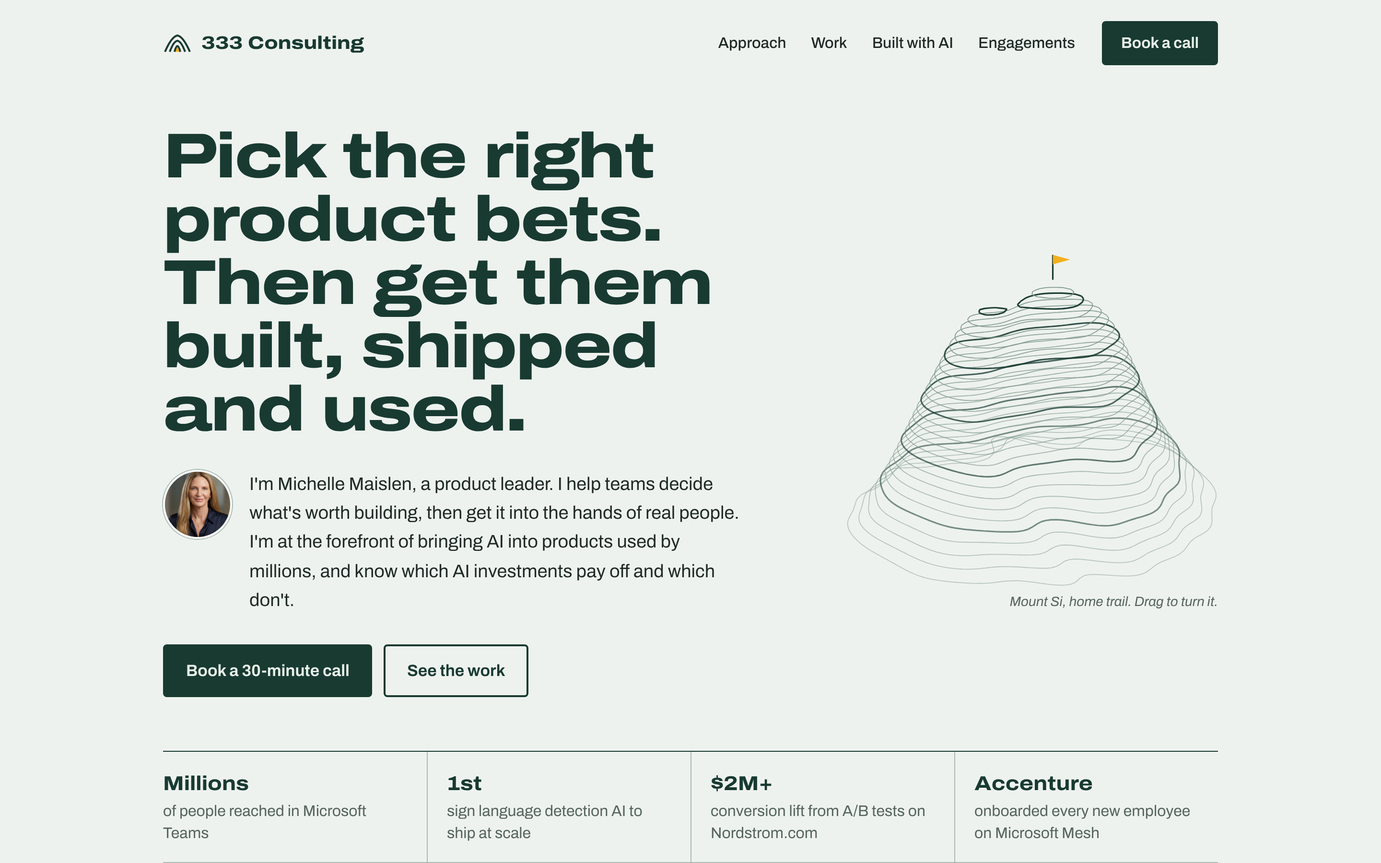
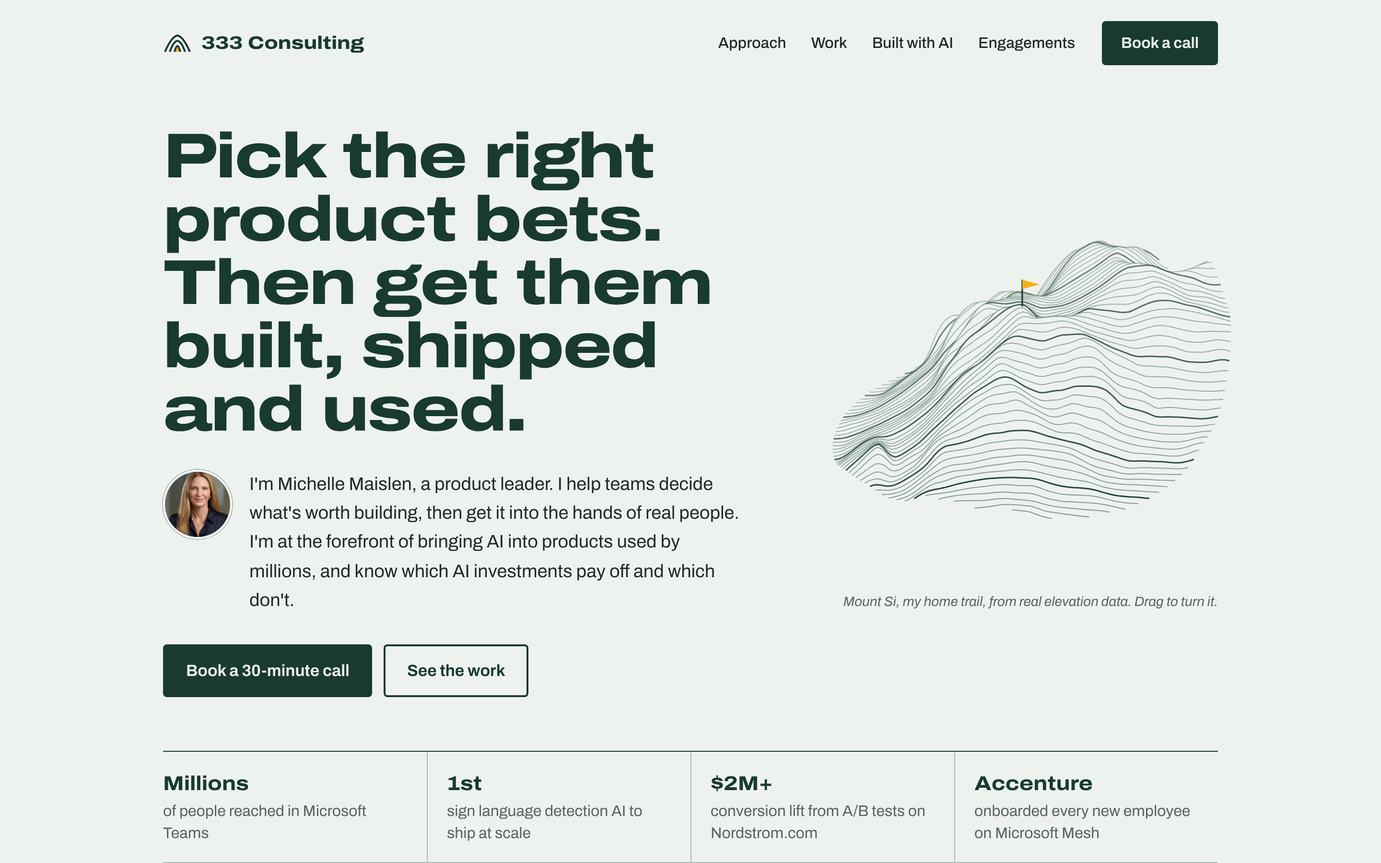
Build Mount Si from real elevation data
Replaces the stylized heightfield with a 73x73 grid sampled from AWS
Terrain Tiles around the Mount Si summit, drawn as hidden-line slices
so nearer ground hides what is behind it.

Claude-Session: https://claude.ai/code/session_01MV51zhT8Ci4aux5RyiGwML

Changed region(s): [[0.5938, 0.28, 0.9062, 0.6222], [0.625, 0.6844, 0.8125, 0.7156]]

diff --git a/terrain.js b/terrain.js
@@ -1,36 +1,23 @@
-/* A stylized Mount Si: a heightfield, cut into contour lines with marching squares, then drawn in 3D.
-   Each contour sits at its own elevation, so turning the model shows the shape the way a 3D package would. */
+/* Mount Si from real elevation data: a 73 x 73 grid of heights in meters (about 3.9 km across, the summit in
+   the middle, lightly smoothed), sampled from USGS-derived AWS Terrain Tiles.
+   Drawn the way a 3D package draws a hidden-line terrain: slices from back to front, each one filled with the
+   background so nearer ground hides what is behind it. Turning the model re-slices it from the new direction. */
 (function () {
-  const N = 72, LEVELS = 26;
-  const g = (x, y, cx, cy, sx, sy, a) => a * Math.exp(-(((x - cx) ** 2) / (2 * sx * sx) + ((y - cy) ** 2) / (2 * sy * sy)));
-  function height(x, y) {
-    let h = g(x, y, 0.08, -0.02, 0.42, 0.2, 1.0)      // main summit
-          + g(x, y, -0.42, 0.08, 0.3, 0.24, 0.62)     // western shoulder
-          + g(x, y, 0.42, 0.22, 0.22, 0.3, 0.42)       // eastern ridge
-          + g(x, y, -0.1, 0.5, 0.5, 0.18, 0.22);       // lower foothills
-    h += g(x, y, 0.5, -0.25, 0.12, 0.1, 0.18) + g(x, y, -0.2, -0.35, 0.1, 0.16, -0.12);
-    h += 0.05 * Math.sin(x * 8.3 + y * 2.9) * Math.cos(y * 6.1 - x * 2.4) + 0.025 * Math.sin(x * 17 - y * 13);
-    const r = Math.sqrt(x * x + y * y);
-    h *= Math.max(0, 1 - Math.pow(r / 1.05, 4));
-    return Math.max(0, h);
+  const N = 72, BASE = 100;
+  const DEM=[129,129,129,129,130,130,131,132,132,133,133,133,134,134,135,136,136,137,140,146,155,171,193,222,252,281,311,339,360,380,404,438,489,552,631,717,795,859,906,917,894,910,958,1008,1057,1068,1035,1032,1045,1040,1020,999,988,986,980,982,1005,1040,1075,1119,1170,1211,1241,1266,1279,1269,1252,1250,1264,1296,1330,1329,1312,128,129,129,129,130,131,131,132,133,133,133,134,134,135,135,136,137,138,141,149,163,181,207,236,264,291,322,351,374,393,416,454,513,586,668,748,816,876,928,957,951,951,993,1045,1087,1092,1061,1056,1064,1058,1038,1016,1008,1004,999,998,1007,1034,1069,1110,1159,1199,1229,1256,1280,1285,1271,1264,1273,1302,1341,1355,1345,128,129,129,129,130,131,131,132,133,133,133,134,134,135,136,137,138,138,142,154,171,194,221,251,278,306,337,365,387,406,431,475,545,629,711,781,841,898,950,991,1003,998,1031,1080,1114,1113,1088,1081,1083,1076,1056,1036,1028,1024,1026,1026,1022,1030,1058,1096,1140,1181,1213,1243,1275,1298,1299,1289,1287,1307,1345,1374,1376,129,129,129,130,130,131,131,132,133,133,134,134,135,136,138,139,140,141,147,161,181,206,234,265,297,329,359,384,403,422,449,499,576,661,738,806,867,922,972,1016,1042,1040,1064,1108,1137,1133,1111,1102,1101,1094,1076,1060,1050,1049,1056,1055,1041,1030,1046,1078,1118,1158,1195,1229,1265,1299,1321,1322,1311,1317,1346,1376,1381,129,129,129,130,130,131,132,132,133,133,134,134,135,138,142,145,147,149,156,171,193,221,251,285,326,364,393,414,429,445,472,521,595,677,750,820,885,942,991,1036,1070,1075,1094,1133,1157,1150,1130,1121,1120,1114,1101,1088,1079,1081,1086,1076,1051,1030,1037,1063,1098,1136,1175,1214,1253,1290,1326,1345,1342,1340,1357,1376,1375,129,129,129,129,130,131,132,132,133,133,134,135,138,144,152,158,160,164,171,186,211,241,275,318,368,411,442,458,464,473,493,536,603,681,752,819,887,949,1001,1049,1091,1104,1123,1158,1176,1167,1148,1141,1139,1135,1127,1118,1113,1114,1108,1085,1052,1028,1030,1051,1083,1117,1156,1198,1240,1278,1316,1349,1367,1371,1377,1375,1362,129,129,129,130,130,131,131,132,133,133,134,136,143,154,165,174,178,183,193,211,237,269,311,367,423,468,500,513,515,513,519,549,607,678,746,808,876,945,1001,1053,1102,1128,1151,1180,1196,1186,1169,1163,1160,1158,1155,1153,1152,1145,1124,1089,1051,1026,1023,1041,1069,1102,1139,1183,1227,1266,1304,1342,1374,1389,1382,1363,1340,129,130,130,130,130,131,131,132,132,133,134,138,150,165,179,191,199,207,223,246,273,311,366,431,485,527,561,581,586,578,562,571,615,674,737,798,862,933,996,1052,1105,1141,1168,1195,1213,1208,1193,1185,1182,1180,1182,1188,1189,1170,1133,1092,1054,1029,1020,1031,1057,1090,1126,1169,1213,1254,1293,1332,1368,1384,1371,1343,1317,130,130,130,130,131,131,132,132,132,133,134,140,155,175,193,211,224,235,256,286,320,368,433,496,542,585,626,652,662,651,621,607,628,678,737,793,850,919,988,1047,1102,1142,1172,1198,1217,1223,1217,1207,1200,1199,1205,1216,1214,1183,1138,1096,1060,1033,1020,1024,1047,1079,1115,1156,1198,1240,1280,1320,1358,1372,1354,1324,1296,130,130,130,131,131,131,132,132,132,133,134,140,158,182,205,227,246,262,287,324,370,431,497,552,597,644,689,716,723,706,673,648,650,688,743,796,847,915,984,1043,1097,1137,1167,1193,1214,1228,1235,1229,1219,1217,1226,1237,1227,1191,1145,1101,1066,1037,1021,1020,1039,1070,1104,1144,1185,1226,1267,1308,1347,1362,1342,1310,1284,130,130,131,131,131,131,132,132,132,133,135,142,161,187,213,237,262,285,314,357,415,486,553,604,649,697,744,774,778,757,722,694,683,702,752,804,857,924,988,1042,1090,1129,1160,1185,1208,1228,1245,1249,1242,1240,1248,1253,1234,1198,1155,1111,1073,1042,1023,1021,1035,1062,1095,1133,1174,1213,1253,1294,1333,1352,1336,1307,1283,130,131,131,131,131,132,132,132,133,133,135,146,168,197,227,253,280,309,342,385,445,519,590,648,693,738,784,820,829,808,774,751,736,734,764,813,871,937,994,1041,1084,1121,1150,1176,1200,1223,1246,1263,1267,1268,1272,1263,1236,1199,1160,1120,1083,1050,1031,1029,1039,1062,1095,1134,1173,1209,1243,1279,1316,1341,1334,1310,1288,130,131,131,131,132,132,132,132,133,134,137,151,174,204,241,279,313,344,377,417,466,530,605,673,725,772,817,853,867,852,826,811,800,784,786,824,882,946,998,1040,1078,1112,1141,1167,1192,1217,1242,1267,1286,1295,1289,1265,1232,1197,1161,1126,1092,1061,1043,1041,1050,1073,1108,1152,1193,1223,1244,1268,1301,1329,1335,1317,1293,131,131,131,131,132,132,132,133,133,135,143,162,187,215,254,308,358,391,425,464,497,537,602,675,737,794,843,879,898,893,879,870,862,843,827,844,891,949,997,1035,1071,1104,1132,1157,1182,1207,1235,1265,1294,1308,1293,1260,1226,1194,1162,1131,1099,1073,1060,1059,1070,1094,1129,1173,1214,1242,1256,1270,1294,1323,1337,1325,1299,131,131,131,132,132,132,132,133,134,140,156,182,208,239,278,333,398,446,488,531,554,565,601,664,732,798,854,894,918,925,923,918,912,896,875,878,907,950,993,1029,1062,1093,1121,1146,1170,1197,1226,1259,1292,1307,1288,1255,1223,1192,1163,1135,1108,1090,1083,1085,1100,1126,1157,1192,1230,1258,1275,1286,1303,1327,1343,1332,1303,131,131,132,132,132,132,132,133,137,152,175,203,231,266,313,370,449,519,570,621,644,638,635,663,719,785,845,888,917,936,948,949,945,933,915,912,930,959,992,1023,1053,1082,1109,1135,1160,1188,1220,1254,1286,1300,1282,1252,1222,1193,1168,1143,1123,1112,1110,1118,1137,1162,1188,1215,1248,1276,1294,1308,1323,1341,1349,1334,1306,131,131,132,132,133,133,133,133,143,166,195,223,252,289,344,426,534,616,666,715,734,721,702,693,710,759,814,859,896,933,960,969,966,958,944,937,948,971,994,1019,1046,1073,1099,1127,1154,1185,1218,1250,1280,1295,1280,1253,1226,1203,1182,1161,1148,1143,1143,1154,1174,1196,1217,1242,1269,1293,1311,1323,1335,1345,1348,1333,1310,131,132,132,132,133,133,133,135,150,180,213,244,273,307,361,455,580,674,725,759,773,767,760,745,729,745,787,832,878,928,966,982,982,976,969,964,965,976,995,1016,1042,1068,1095,1124,1153,1184,1216,1247,1277,1298,1292,1269,1246,1224,1206,1191,1184,1180,1179,1187,1204,1225,1245,1266,1288,1306,1314,1318,1323,1329,1332,1327,1314,131,132,132,133,133,134,134,139,160,193,227,262,295,326,371,445,546,639,701,740,764,782,799,800,779,771,798,839,883,930,971,991,992,989,988,988,986,983,993,1013,1038,1064,1091,1120,1149,1179,1211,1242,1273,1303,1313,1300,1278,1256,1240,1230,1225,1221,1218,1219,1231,1249,1269,1286,1299,1300,1295,1291,1292,1298,1304,1308,1307,131,132,133,133,133,134,135,145,171,204,239,277,313,345,383,433,504,577,638,694,741,783,824,850,843,825,841,881,922,956,985,1000,1003,1002,1003,1006,1002,993,994,1010,1033,1059,1085,1113,1142,1171,1202,1235,1268,1302,1326,1329,1312,1295,1284,1275,1267,1260,1253,1251,1257,1273,1291,1301,1295,1279,1265,1259,1259,1264,1271,1278,1283,131,132,133,133,134,134,137,152,181,215,250,288,322,357,397,438,489,542,598,667,739,804,858,896,901,883,885,920,964,991,1005,1013,1016,1016,1018,1018,1013,1003,999,1011,1031,1055,1080,1107,1135,1162,1193,1226,1261,1296,1325,1344,1342,1335,1330,1324,1313,1301,1291,1286,1289,1298,1305,1299,1281,1257,1240,1232,1230,1233,1239,1245,1251,130,132,133,133,134,136,144,161,188,221,256,291,324,359,400,440,483,530,594,680,765,837,895,936,953,946,930,948,989,1013,1021,1027,1030,1032,1032,1028,1018,1010,1007,1015,1033,1054,1078,1103,1129,1155,1185,1218,1253,1288,1319,1346,1361,1365,1367,1367,1359,1345,1332,1322,1314,1306,1296,1284,1266,1242,1223,1212,1208,1208,1211,1214,1219,129,131,132,133,135,142,155,174,199,227,257,289,323,359,400,440,484,534,611,716,806,872,924,965,994,1004,989,989,1014,1028,1034,1041,1046,1047,1044,1035,1021,1015,1015,1021,1037,1056,1077,1101,1126,1152,1180,1212,1246,1281,1314,1344,1364,1373,1377,1380,1378,1365,1347,1329,1310,1290,1275,1265,1254,1234,1214,1201,1192,1188,1187,1189,1194,129,130,132,134,138,148,165,186,212,239,265,294,327,364,403,443,487,539,621,728,825,893,936,969,1000,1021,1028,1032,1039,1042,1047,1056,1061,1061,1054,1040,1024,1020,1024,1029,1041,1058,1078,1100,1125,1152,1179,1209,1241,1277,1310,1339,1357,1361,1362,1365,1367,1357,1337,1317,1297,1276,1257,1246,1239,1228,1213,1197,1180,1168,1164,1166,1171,129,129,131,134,140,154,172,195,222,250,278,305,336,371,408,447,489,540,618,715,803,867,907,938,971,1003,1031,1051,1057,1055,1057,1065,1072,1073,1062,1044,1028,1026,1032,1038,1046,1060,1080,1102,1125,1153,1180,1208,1238,1272,1304,1329,1340,1340,1339,1344,1352,1348,1329,1310,1293,1271,1246,1229,1223,1220,1213,1199,1179,1160,1151,1150,1151,129,129,131,135,142,158,177,202,230,258,286,314,345,381,415,451,489,538,612,698,768,812,852,901,952,1000,1040,1065,1068,1062,1061,1067,1077,1080,1070,1050,1032,1029,1036,1044,1050,1062,1081,1103,1126,1153,1180,1207,1235,1265,1293,1312,1318,1317,1318,1324,1337,1342,1328,1309,1291,1268,1242,1222,1212,1209,1206,1198,1181,1162,1147,1141,1139,129,130,132,136,145,162,181,207,234,262,291,320,353,389,425,460,497,543,611,683,728,763,821,893,959,1020,1064,1080,1076,1066,1062,1067,1078,1087,1080,1058,1036,1030,1037,1047,1056,1066,1082,1102,1125,1153,1179,1205,1230,1255,1277,1290,1294,1295,1297,1304,1320,1333,1328,1310,1290,1267,1242,1221,1209,1202,1197,1189,1177,1161,1147,1139,1134,129,131,133,138,149,166,186,210,236,265,294,324,357,393,429,466,504,550,604,655,693,744,823,908,981,1047,1089,1094,1081,1067,1062,1066,1077,1092,1092,1069,1042,1032,1037,1048,1061,1072,1085,1103,1125,1152,1178,1202,1224,1243,1259,1267,1268,1269,1273,1283,1301,1318,1321,1310,1291,1269,1245,1224,1211,1203,1195,1184,1170,1155,1144,1137,1133,130,132,135,142,155,172,192,213,238,267,296,325,357,393,428,464,501,542,586,635,692,761,844,925,988,1042,1082,1092,1080,1067,1063,1071,1084,1097,1101,1082,1052,1036,1038,1049,1064,1077,1090,1107,1126,1151,1176,1198,1216,1229,1238,1242,1242,1242,1248,1263,1283,1300,1308,1304,1290,1271,1248,1229,1218,1209,1197,1184,1168,1151,1140,1133,1128,130,134,140,150,164,181,197,215,238,267,295,323,353,387,421,454,490,528,577,645,723,800,873,936,984,1016,1041,1057,1066,1070,1075,1088,1102,1113,1118,1101,1070,1047,1044,1054,1067,1080,1095,1111,1130,1153,1176,1195,1208,1214,1217,1216,1214,1212,1224,1244,1265,1281,1289,1290,1282,1268,1250,1233,1224,1216,1201,1185,1170,1155,1140,1129,1122,131,137,148,160,172,188,202,217,238,265,291,316,344,375,407,440,476,518,579,666,752,819,867,907,944,966,988,1025,1068,1094,1105,1117,1129,1140,1145,1129,1096,1067,1057,1064,1074,1084,1098,1115,1137,1162,1183,1194,1198,1199,1197,1191,1185,1184,1200,1222,1240,1253,1261,1262,1259,1252,1242,1229,1220,1211,1196,1181,1168,1156,1143,1129,1118,132,141,155,167,178,191,206,222,242,265,289,312,336,365,398,432,467,511,582,676,759,807,829,857,888,922,967,1021,1082,1125,1142,1153,1163,1172,1176,1159,1122,1087,1073,1077,1087,1096,1106,1124,1151,1180,1197,1195,1189,1184,1177,1166,1158,1161,1177,1194,1209,1220,1226,1227,1228,1227,1221,1211,1200,1188,1177,1166,1153,1142,1136,1128,1117,132,140,155,168,178,192,207,225,247,270,294,316,339,368,402,436,469,512,582,670,739,771,798,841,888,934,986,1040,1095,1143,1169,1185,1195,1205,1211,1193,1146,1103,1089,1096,1108,1118,1128,1144,1169,1195,1203,1190,1178,1169,1157,1143,1136,1143,1156,1170,1182,1192,1199,1203,1204,1200,1190,1177,1163,1149,1141,1135,1128,1120,1116,1113,1107,132,138,152,165,176,191,207,227,248,273,296,319,343,372,406,442,478,518,576,646,702,745,802,870,932,975,1013,1056,1098,1137,1169,1197,1217,1232,1236,1211,1161,1120,1113,1125,1138,1147,1156,1168,1186,1198,1195,1179,1165,1152,1136,1123,1116,1121,1133,1145,1157,1168,1176,1180,1176,1164,1150,1135,1120,1106,1098,1096,1096,1093,1088,1082,1075,132,135,146,160,175,191,207,226,247,272,296,319,344,371,404,441,478,516,567,631,692,752,820,891,948,986,1017,1048,1076,1105,1138,1174,1207,1235,1241,1212,1169,1144,1147,1160,1171,1177,1183,1190,1196,1193,1182,1167,1153,1137,1120,1108,1098,1097,1104,1115,1127,1139,1146,1148,1139,1126,1109,1090,1076,1065,1057,1055,1059,1062,1060,1048,1033,132,133,140,155,172,188,206,225,245,268,293,317,341,367,398,433,468,506,555,626,705,773,833,887,929,960,988,1015,1038,1065,1101,1141,1177,1212,1234,1220,1189,1176,1184,1195,1202,1205,1207,1206,1199,1185,1170,1153,1139,1125,1108,1094,1083,1074,1075,1083,1095,1104,1110,1110,1100,1088,1073,1051,1033,1025,1018,1015,1019,1024,1027,1016,998,132,132,139,154,169,186,206,228,247,268,292,315,337,362,392,425,460,497,545,616,704,779,832,870,899,924,950,975,1001,1034,1078,1120,1157,1195,1231,1232,1210,1204,1211,1219,1224,1224,1220,1211,1196,1178,1158,1139,1125,1113,1098,1084,1072,1058,1049,1052,1061,1066,1070,1069,1061,1051,1039,1017,995,987,981,975,975,980,985,981,964,132,133,138,151,168,189,213,235,253,271,293,316,338,365,395,426,459,496,545,614,693,759,807,841,865,890,916,943,976,1016,1061,1103,1139,1180,1216,1221,1210,1208,1212,1215,1218,1221,1218,1207,1191,1171,1149,1131,1115,1102,1089,1074,1061,1047,1030,1022,1024,1028,1028,1025,1020,1012,999,979,959,949,942,936,933,935,940,939,927,132,133,136,148,170,197,222,244,262,279,298,320,345,375,405,435,467,502,548,609,673,729,774,807,833,859,889,922,960,999,1040,1079,1118,1161,1194,1200,1195,1191,1189,1189,1194,1203,1207,1200,1186,1168,1148,1130,1113,1097,1079,1060,1044,1029,1011,996,991,992,990,982,976,970,955,938,923,912,903,896,891,890,893,893,887,133,133,136,151,176,204,227,250,270,287,304,326,352,382,412,443,476,513,555,603,654,702,742,775,805,837,872,908,945,982,1021,1062,1105,1151,1182,1185,1177,1168,1159,1155,1165,1181,1189,1185,1178,1170,1156,1138,1118,1098,1076,1054,1035,1016,996,974,961,958,954,944,937,930,917,904,891,879,869,860,853,850,850,850,846,133,134,140,159,185,209,230,253,275,293,310,330,354,383,415,447,481,521,561,603,645,684,721,756,791,827,862,899,937,976,1017,1060,1105,1148,1170,1164,1153,1141,1127,1124,1137,1153,1160,1159,1160,1167,1166,1151,1130,1106,1082,1059,1035,1010,985,955,930,918,913,905,899,894,883,871,857,843,834,825,819,815,813,812,810,133,135,145,167,191,213,233,257,280,298,315,335,359,387,416,448,482,520,559,599,639,679,721,762,802,838,869,905,946,990,1035,1078,1116,1146,1152,1139,1124,1109,1095,1093,1106,1118,1124,1126,1135,1151,1163,1156,1136,1105,1068,1037,1007,979,954,929,903,880,870,863,859,853,844,831,818,806,799,793,787,782,780,779,778,134,136,147,168,192,216,241,266,289,305,320,339,362,387,413,443,475,510,547,587,630,679,731,782,828,866,895,923,958,1002,1051,1093,1121,1134,1129,1113,1095,1076,1062,1060,1072,1082,1086,1092,1107,1125,1135,1134,1120,1083,1032,991,959,935,914,896,876,849,830,819,814,810,801,790,781,775,769,762,756,752,750,748,749,134,136,144,165,191,221,252,280,301,315,322,335,357,380,403,433,465,498,533,575,623,677,736,792,843,882,914,944,975,1014,1058,1095,1112,1110,1101,1086,1066,1044,1027,1025,1037,1047,1049,1054,1071,1088,1094,1091,1082,1055,1006,956,919,897,881,867,850,825,797,775,766,765,760,754,748,741,733,725,719,717,717,717,721,134,135,143,164,194,229,264,293,314,324,324,329,347,368,391,419,452,486,523,570,623,677,731,785,833,872,906,939,974,1014,1056,1087,1093,1081,1068,1055,1038,1016,995,990,1002,1011,1014,1017,1032,1046,1050,1046,1039,1021,986,938,894,865,848,834,820,802,776,743,726,729,728,721,713,704,695,687,681,679,683,688,694,134,136,144,168,201,239,275,304,323,334,330,325,335,356,380,406,439,475,516,566,618,671,720,764,808,849,886,923,960,1000,1040,1070,1073,1055,1037,1023,1008,988,967,959,967,976,981,982,994,1007,1012,1010,1005,991,962,923,877,835,808,795,784,770,750,717,694,695,694,688,681,673,665,656,651,650,655,662,667,134,136,147,175,211,250,286,312,332,344,339,327,328,348,374,401,435,472,513,561,609,657,701,743,788,834,876,913,945,978,1016,1050,1056,1036,1011,992,978,961,941,930,934,944,948,948,959,971,976,975,971,961,940,910,864,812,776,759,746,731,712,685,664,661,658,652,647,641,634,629,626,629,634,640,643,134,137,153,185,224,260,293,318,340,355,352,334,329,347,375,405,438,474,513,557,601,644,689,733,778,825,866,895,920,953,993,1028,1038,1020,994,969,951,936,916,903,906,915,918,917,926,937,941,938,935,927,910,884,839,785,746,726,709,691,672,650,635,631,626,621,617,612,608,607,610,614,617,619,621,134,138,160,196,233,266,296,324,349,369,367,344,333,348,375,404,436,471,509,553,598,643,688,732,773,813,845,872,901,935,973,1005,1019,1008,985,957,931,912,892,877,877,885,888,885,895,907,909,902,897,889,871,844,800,747,710,688,671,653,636,619,608,604,597,591,588,586,586,590,597,601,601,601,601,135,139,163,200,235,268,299,330,359,384,385,359,338,346,370,397,427,460,501,549,595,638,681,722,758,791,824,859,893,925,954,982,999,997,979,949,918,893,870,851,847,852,852,851,865,879,877,865,855,848,831,800,755,707,674,653,636,621,605,594,584,576,569,564,561,561,566,575,585,589,587,586,586,135,138,160,198,236,270,303,336,368,400,406,375,342,341,361,387,416,450,493,541,585,625,663,702,741,778,818,856,885,910,934,959,974,978,969,945,914,884,855,831,819,819,817,820,837,850,844,827,812,804,789,757,714,674,645,624,607,594,580,570,560,550,545,541,538,540,549,563,574,578,575,572,572,136,137,154,192,233,271,307,342,378,415,426,390,345,336,353,380,409,442,482,527,568,607,647,690,734,774,812,844,868,890,915,936,945,950,951,939,911,879,847,819,798,788,785,792,808,818,809,790,772,759,744,715,678,645,620,599,582,569,557,547,538,530,524,519,518,521,531,546,558,562,560,557,556,136,136,149,185,227,267,306,344,385,425,442,409,353,332,347,377,407,436,470,510,552,597,640,683,724,761,794,821,845,871,895,911,914,917,925,924,902,870,839,811,785,764,757,763,775,782,774,754,731,713,697,671,641,614,593,574,557,544,534,526,520,513,505,499,497,499,508,522,534,540,540,537,535,135,136,146,178,218,257,297,339,383,425,449,427,367,330,342,373,403,429,455,493,542,590,633,671,705,738,767,792,821,850,871,880,878,880,891,898,882,853,828,804,777,750,733,733,739,745,737,717,690,667,651,629,605,583,563,545,530,519,512,507,501,495,489,481,476,476,482,493,505,513,516,513,510,135,135,143,170,205,241,280,323,368,410,439,427,371,325,334,364,392,415,438,477,532,582,621,652,682,712,738,764,794,822,839,843,841,841,850,857,850,832,815,794,769,741,717,704,703,705,698,678,653,629,610,592,572,552,533,514,499,493,490,485,480,476,472,466,460,457,460,469,479,486,489,488,484,135,135,140,162,195,227,262,303,344,383,410,403,357,315,323,348,373,397,426,474,535,583,614,640,665,687,709,736,763,787,800,804,802,802,809,814,811,804,793,776,752,726,702,684,673,667,659,644,622,599,576,558,542,523,505,485,471,467,467,465,461,458,455,451,447,444,446,453,460,465,467,464,461,135,135,140,159,191,220,249,283,316,347,372,370,335,302,309,331,354,382,422,482,541,582,610,632,650,665,685,708,730,748,759,764,764,764,771,775,773,769,761,745,724,701,683,667,653,640,627,612,593,570,547,530,514,497,480,462,450,448,450,449,445,441,439,437,434,431,434,441,446,448,447,444,441,136,137,141,157,187,213,236,263,291,319,340,339,312,289,296,317,342,371,416,472,519,562,599,621,635,646,661,677,694,710,721,726,727,726,732,735,732,729,722,708,690,674,661,649,638,625,608,586,562,540,520,504,489,474,458,443,435,435,437,436,431,427,424,422,419,416,418,426,430,429,426,421,419,137,138,142,152,179,204,225,247,272,299,317,314,293,279,288,310,338,369,405,445,489,543,586,609,619,626,635,647,660,673,684,691,691,690,695,698,696,692,685,674,662,652,643,634,625,615,598,572,544,518,497,481,468,455,441,430,424,424,424,422,419,414,410,408,405,401,402,407,409,407,403,398,395,139,140,142,148,169,195,216,236,259,284,300,298,281,274,286,309,337,365,393,426,471,526,571,596,603,607,613,620,629,639,649,657,660,661,664,665,664,661,655,647,639,633,626,618,609,598,581,558,533,508,484,463,449,439,429,420,414,414,412,409,406,401,395,392,389,385,386,389,388,384,381,378,378,140,140,141,145,159,183,207,228,248,269,284,286,275,271,283,303,327,353,382,416,460,509,554,579,586,590,595,599,604,611,619,627,634,637,637,638,638,637,632,626,620,613,604,594,584,573,557,538,518,497,475,452,435,424,417,410,405,403,400,395,391,387,381,375,372,368,368,370,367,365,364,365,367,140,141,141,143,151,171,196,218,237,254,269,276,271,268,276,291,313,341,373,410,451,493,530,554,563,569,574,578,582,587,593,601,608,611,611,612,616,617,615,610,601,589,577,565,554,543,530,515,499,482,462,441,424,412,405,399,393,389,386,380,374,371,366,359,356,352,351,353,352,354,356,358,359,140,141,141,143,147,161,186,210,230,244,257,265,266,265,270,283,304,332,365,401,437,470,499,523,538,545,548,551,555,562,570,578,585,588,589,593,597,600,599,591,578,562,548,536,524,512,501,489,476,463,448,430,414,402,391,385,378,373,370,363,356,354,351,345,342,339,338,340,342,346,349,351,352,140,141,141,143,145,156,179,204,223,235,247,257,261,263,269,281,299,326,358,392,425,455,480,503,519,525,527,529,534,542,550,557,562,565,568,573,577,577,574,564,550,536,523,508,494,481,470,460,453,445,434,420,404,391,378,369,363,357,353,347,340,337,335,331,328,327,327,329,333,338,340,342,342,140,141,141,142,144,152,172,196,215,228,240,251,256,261,269,281,296,318,347,379,412,443,469,486,499,510,515,518,522,528,535,540,543,544,546,549,550,548,543,536,526,514,498,481,465,452,443,436,431,425,418,408,394,379,366,355,347,341,337,331,324,321,319,316,314,315,317,318,322,327,330,331,333,140,141,141,143,144,149,164,187,206,221,232,243,250,257,268,279,292,309,333,366,401,434,455,463,474,489,500,505,509,514,520,524,526,526,527,527,526,521,516,512,505,491,472,453,438,426,418,413,409,404,399,391,380,367,355,343,332,324,320,315,310,306,303,301,302,306,306,306,310,314,317,321,325,141,141,142,143,144,147,157,176,196,213,226,237,246,255,266,279,291,306,331,364,395,420,435,441,451,465,476,483,490,495,500,505,508,509,509,507,503,496,491,489,482,466,445,426,413,402,395,391,387,382,378,372,363,354,343,330,317,308,305,301,297,293,289,288,291,294,293,293,296,301,306,311,316,141,141,142,144,145,146,152,169,190,208,222,234,243,251,262,275,289,308,336,367,392,411,421,427,435,443,452,460,468,474,478,481,484,488,488,485,479,471,468,466,458,440,420,404,393,383,377,372,367,362,357,351,345,338,327,314,301,292,289,288,284,281,277,276,279,279,279,278,281,288,295,300,306,141,142,143,145,147,147,153,172,195,211,224,233,241,248,257,270,287,309,336,366,394,411,416,420,425,430,438,445,451,455,457,458,460,463,463,461,456,449,445,441,432,417,401,387,377,369,362,356,350,343,337,331,325,317,307,297,286,276,274,273,271,268,265,264,266,267,267,266,269,275,281,287,294,141,142,144,146,148,148,155,176,200,215,226,234,240,247,255,268,285,303,326,359,389,401,402,409,418,424,431,436,439,439,438,438,439,441,443,443,438,431,426,421,413,401,385,372,362,354,347,339,331,323,316,309,302,294,286,278,270,263,260,258,257,255,252,252,255,257,258,258,260,263,267,273,279,141,141,143,146,149,152,158,175,199,216,227,234,241,246,253,262,275,288,309,343,368,374,379,392,405,415,422,425,425,422,419,418,420,424,427,428,425,420,415,410,404,389,369,355,347,338,329,320,312,303,295,287,278,271,265,259,254,249,245,243,242,241,239,240,244,247,249,249,250,252,254,259,266,141,141,142,144,149,158,166,179,198,212,223,232,239,245,248,255,265,275,293,318,336,347,360,375,389,401,407,407,404,400,398,398,400,404,409,413,413,410,404,399,392,373,353,340,331,321,311,301,291,283,275,268,259,251,246,242,240,236,231,229,229,229,229,231,235,238,239,239,239,240,244,251,258,141,141,141,143,149,163,176,181,192,205,218,228,236,242,245,251,258,265,278,296,314,333,352,367,379,387,388,386,381,377,375,376,380,386,393,399,402,400,394,388,377,358,341,329,317,306,294,284,274,266,260,254,246,237,232,229,228,225,220,220,220,221,222,224,228,231,232,232,231,233,238,246,252];
+  let max = 0;
+  const H = new Float32Array((N + 1) * (N + 1));
+  for (let k = 0; k < H.length; k++) { H[k] = Math.max(0, DEM[k] - BASE); if (H[k] > max) max = H[k]; }
+  function at(x, y) { // x, y in -1..1, bilinear
+    const gx = (x + 1) / 2 * N, gy = (y + 1) / 2 * N;
+    const i = Math.min(N - 1, Math.max(0, Math.floor(gx))), j = Math.min(N - 1, Math.max(0, Math.floor(gy)));
+    const fx = gx - i, fy = gy - j, r = j * (N + 1);
+    const a = H[r + i], b = H[r + i + 1], c = H[r + N + 1 + i], d = H[r + N + 2 + i];
+    return (a * (1 - fx) + b * fx) * (1 - fy) + (c * (1 - fx) + d * fx) * fy;
   }
-  const H = [];
-  for (let j = 0; j <= N; j++) { H[j] = []; for (let i = 0; i <= N; i++) H[j][i] = height(-1 + 2 * i / N, -1 + 2 * j / N); }
-  let max = 0; H.forEach(r => r.forEach(v => { if (v > max) max = v; }));
-  const segs = [];
-  for (let k = 1; k <= LEVELS; k++) {
-    const t = (k / (LEVELS + 1)) * max;
-    for (let j = 0; j < N; j++) for (let i = 0; i < N; i++) {
-      const a = H[j][i], b = H[j][i + 1], c = H[j + 1][i + 1], d = H[j + 1][i];
-      const pts = [];
-      const edge = (v1, v2, x1, y1, x2, y2) => { if ((v1 < t) !== (v2 < t)) { const f = (t - v1) / (v2 - v1); pts.push([x1 + (x2 - x1) * f, y1 + (y2 - y1) * f]); } };
-      edge(a, b, i, j, i + 1, j); edge(b, c, i + 1, j, i + 1, j + 1); edge(c, d, i + 1, j + 1, i, j + 1); edge(d, a, i, j + 1, i, j);
-      for (let p = 0; p + 1 < pts.length; p += 2) segs.push([pts[p][0] / N * 2 - 1, pts[p][1] / N * 2 - 1, pts[p + 1][0] / N * 2 - 1, pts[p + 1][1] / N * 2 - 1, k]);
-    }
-  }
-  // summit position
+  // Mount Si summit: the high point near the middle of the grid
   let sx = 0, sy = 0, sv = 0;
-  for (let j = 0; j <= N; j++) for (let i = 0; i <= N; i++) if (H[j][i] > sv) { sv = H[j][i]; sx = -1 + 2 * i / N; sy = -1 + 2 * j / N; }
+  for (let j = 30; j <= 42; j++) for (let i = 30; i <= 42; i++) { const v = H[j * (N + 1) + i]; if (v > sv) { sv = v; sx = -1 + 2 * i / N; sy = -1 + 2 * j / N; } }
 
   function model(canvas, opts) {
     const ctx = canvas.getContext('2d');
@@ -41,31 +28,51 @@
       canvas.width = w * dpr; canvas.height = h * dpr;
       ctx.setTransform(dpr, 0, 0, dpr, 0, 0);
     }
+    const SLICES = 54, STEPS = 90;
     function draw() {
       if (!w) return;
       ctx.clearRect(0, 0, w, h);
-      const s = Math.min(w, h * 1.0) * 0.47, cx = w * 0.5, cy = h * 0.74, tilt = opts.tilt, zs = 1.35 / max;
-      const ca = Math.cos(angle), sa = Math.sin(angle), ct = Math.cos(tilt), st = Math.sin(tilt);
-      const P = (x, y, z) => { const rx = x * ca - y * sa, ry = x * sa + y * ca; return [cx + rx * s, cy + (ry * st - z * zs * ct) * s]; };
-      for (let k = 1; k <= LEVELS; k++) {
-        const z = (k / (LEVELS + 1)) * max, index = k % 5 === 0;
+      const s = Math.min(w, h * 1.05) * 0.46, cx = w * 0.5, cy = h * (w > h * 1.4 ? 0.7 : 0.6), st = Math.sin(opts.tilt), ct = Math.cos(opts.tilt), zs = 0.9 / max;
+      const ca = Math.cos(angle), sa = Math.sin(angle);
+      const scr = (u, d, z) => [cx + u * s, cy + (d * st - z * zs * ct) * s];
+      // summit depth in view space, so the flag is drawn in its place in the stack
+      const sd = sx * sa + sy * ca;
+      let flagDone = false;
+      for (let n = 0; n < SLICES; n++) {
+        const d = -0.995 + 1.99 * n / (SLICES - 1);   // far to near
+        if (!flagDone && d > sd) { flag(scr(sx * ca - sy * sa, sd, sv)); flagDone = true; }
+        const half = Math.sqrt(1 - d * d);
+        const pts = [];
+        for (let k = 0; k <= STEPS; k++) {
+          const u = -half + 2 * half * k / STEPS;
+          const x = u * ca + d * sa, y = -u * sa + d * ca;
+          pts.push(scr(u, d, at(x, y)));
+        }
+        const b0 = scr(half, d, 0), b1 = scr(-half, d, 0);
         ctx.beginPath();
-        for (const sg of segs) if (sg[4] === k) { const p = P(sg[0], sg[1], z), q = P(sg[2], sg[3], z); ctx.moveTo(p[0], p[1]); ctx.lineTo(q[0], q[1]); }
-        ctx.strokeStyle = index ? opts.index : opts.line;
-        ctx.lineWidth = index ? 1.6 : 0.9;
-        ctx.globalAlpha = 0.45 + 0.55 * (k / LEVELS);
+        pts.forEach((p, k) => k ? ctx.lineTo(p[0], p[1]) : ctx.moveTo(p[0], p[1]));
+        ctx.lineTo(b0[0], b0[1]); ctx.lineTo(b1[0], b1[1]); ctx.closePath();
+        ctx.fillStyle = opts.bg; ctx.fill();
+        ctx.beginPath();
+        pts.forEach((p, k) => k ? ctx.lineTo(p[0], p[1]) : ctx.moveTo(p[0], p[1]));
+        const near = n / (SLICES - 1);
+        ctx.strokeStyle = n % 6 === 0 ? opts.index : opts.line;
+        ctx.lineWidth = n % 6 === 0 ? 1.5 : 1;
+        ctx.globalAlpha = 0.5 + 0.5 * near;
         ctx.stroke();
+        ctx.globalAlpha = 1;
       }
-      ctx.globalAlpha = 1;
-      const top = P(sx, sy, sv);
-      ctx.beginPath(); ctx.moveTo(top[0], top[1] - 4); ctx.lineTo(top[0], top[1] - 30); ctx.strokeStyle = opts.index; ctx.lineWidth = 1.6; ctx.stroke();
-      ctx.beginPath(); ctx.moveTo(top[0], top[1] - 30); ctx.lineTo(top[0] + 18, top[1] - 25); ctx.lineTo(top[0], top[1] - 20); ctx.closePath(); ctx.fillStyle = '#f2b01e'; ctx.fill();
+      if (!flagDone) flag(scr(sx * ca - sy * sa, sd, sv));
+    }
+    function flag(p) {
+      ctx.beginPath(); ctx.moveTo(p[0], p[1]); ctx.lineTo(p[0], p[1] - 28); ctx.strokeStyle = opts.index; ctx.lineWidth = 1.6; ctx.stroke();
+      ctx.beginPath(); ctx.moveTo(p[0], p[1] - 28); ctx.lineTo(p[0] + 18, p[1] - 23); ctx.lineTo(p[0], p[1] - 18); ctx.closePath(); ctx.fillStyle = '#f2b01e'; ctx.fill();
     }
     size(); draw();
     let rt; window.addEventListener('resize', () => { clearTimeout(rt); rt = setTimeout(() => { size(); draw(); }, 100); });
     if (!opts.interactive) return;
     const still = window.matchMedia('(prefers-reduced-motion: reduce)').matches;
-    let dragging = false, lastX = 0, visible = true, spin = still ? 0 : 0.0012, last = performance.now();
+    let dragging = false, lastX = 0, visible = true, last = performance.now();
     new IntersectionObserver(e => { visible = e[0].isIntersecting; }).observe(canvas);
     canvas.addEventListener('pointerdown', e => { dragging = true; lastX = e.clientX; canvas.setPointerCapture(e.pointerId); });
     canvas.addEventListener('pointermove', e => { if (!dragging) return; angle += (e.clientX - lastX) * 0.008; lastX = e.clientX; draw(); });
@@ -74,11 +81,11 @@
     if (still) return;
     (function loop(now) {
       const dt = Math.min(now - last, 50); last = now;
-      if (visible && !dragging) { angle += spin * dt * 0.06; draw(); }
+      if (visible && !dragging) { angle += 0.00007 * dt; draw(); }
       requestAnimationFrame(loop);
     })(last);
   }
   const hero = document.getElementById('terrain-hero'), cta = document.getElementById('terrain-cta');
-  if (hero) model(hero, { angle: -0.35, tilt: 0.55, line: '#7f978b', index: '#183a31', interactive: true });
-  if (cta) model(cta, { angle: 0.9, tilt: 0.55, line: '#4f7366', index: '#a9c0b5', interactive: false });
+  if (hero) model(hero, { angle: 0.0, tilt: 0.5, bg: '#eef2ef', line: '#7f978b', index: '#183a31', interactive: true });
+  if (cta) model(cta, { angle: 0.6, tilt: 0.5, bg: '#183a31', line: '#4f7366', index: '#a9c0b5', interactive: false });
 })();

diff --git a/index.html b/index.html
@@ -48,8 +48,8 @@
         </div>
       </div>
       <figure class="terrain" style="margin-top:0;margin-bottom:0">
-        <canvas id="terrain-hero" role="img" aria-label="A 3D contour model of Mount Si, near Michelle's home in North Bend. Drag to turn it."></canvas>
-        <figcaption>A stylized Mount Si, my home trail. Drag to turn it.</figcaption>
+        <canvas id="terrain-hero" role="img" aria-label="A 3D contour model of Mount Si, near Michelle's home in North Bend, built from real elevation data. Drag to turn it."></canvas>
+        <figcaption>Mount Si, my home trail, from real elevation data. Drag to turn it.</figcaption>
       </figure>
     </div>
     <div class="proof">

diff --git a/README.md b/README.md
@@ -11,3 +11,6 @@ Live at https://mmaislen.github.io (served by GitHub Pages). Custom domain 333co
 4. At your domain registrar, add DNS records:
    - `A` records for `@` pointing to 185.199.108.153, 185.199.109.153, 185.199.110.153, 185.199.111.153
    - `CNAME` record for `www` pointing to `<your-github-username>.github.io`
+
+## Mount Si model
+`terrain.js` draws Mount Si from real elevation data: a 73 x 73 height grid (about 3.9 km across) sampled from AWS Terrain Tiles (Mapzen/Tilezen terrarium, derived from USGS 3DEP and other public sources).
